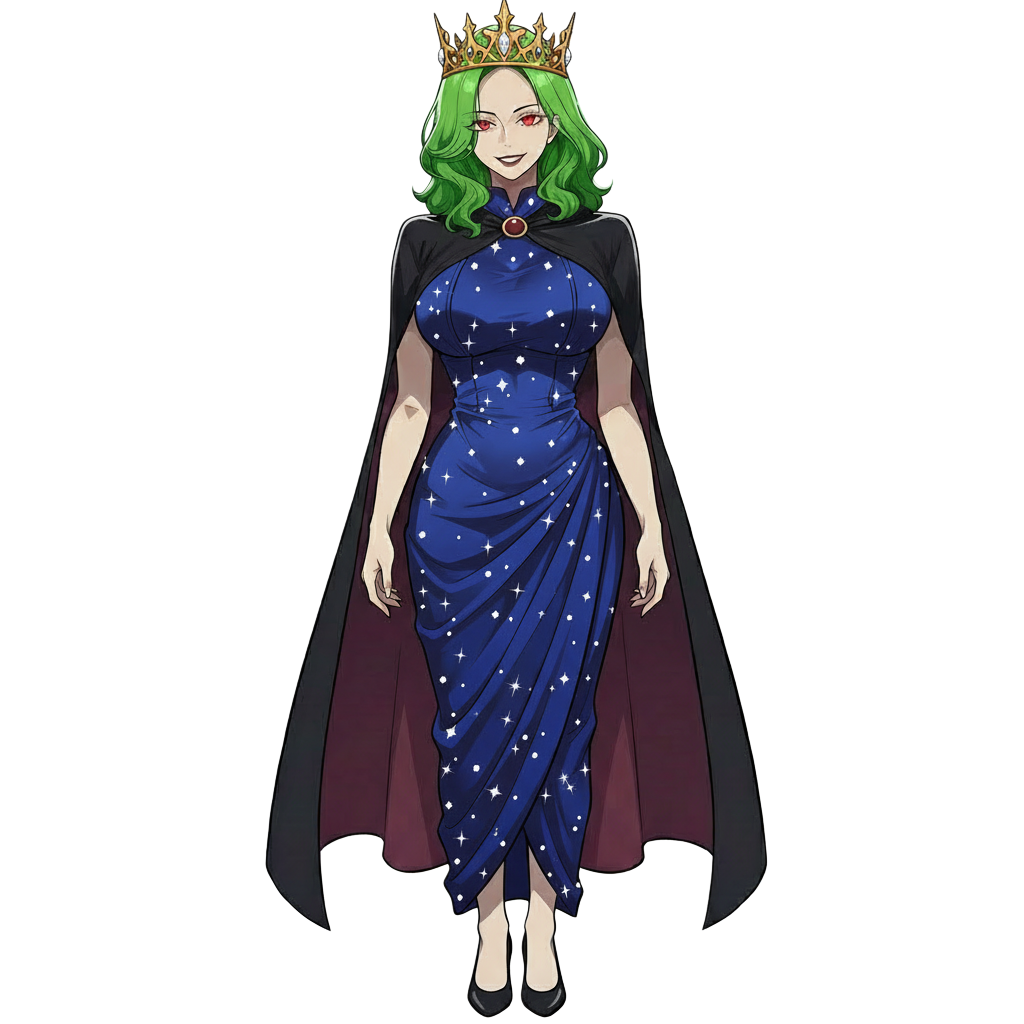
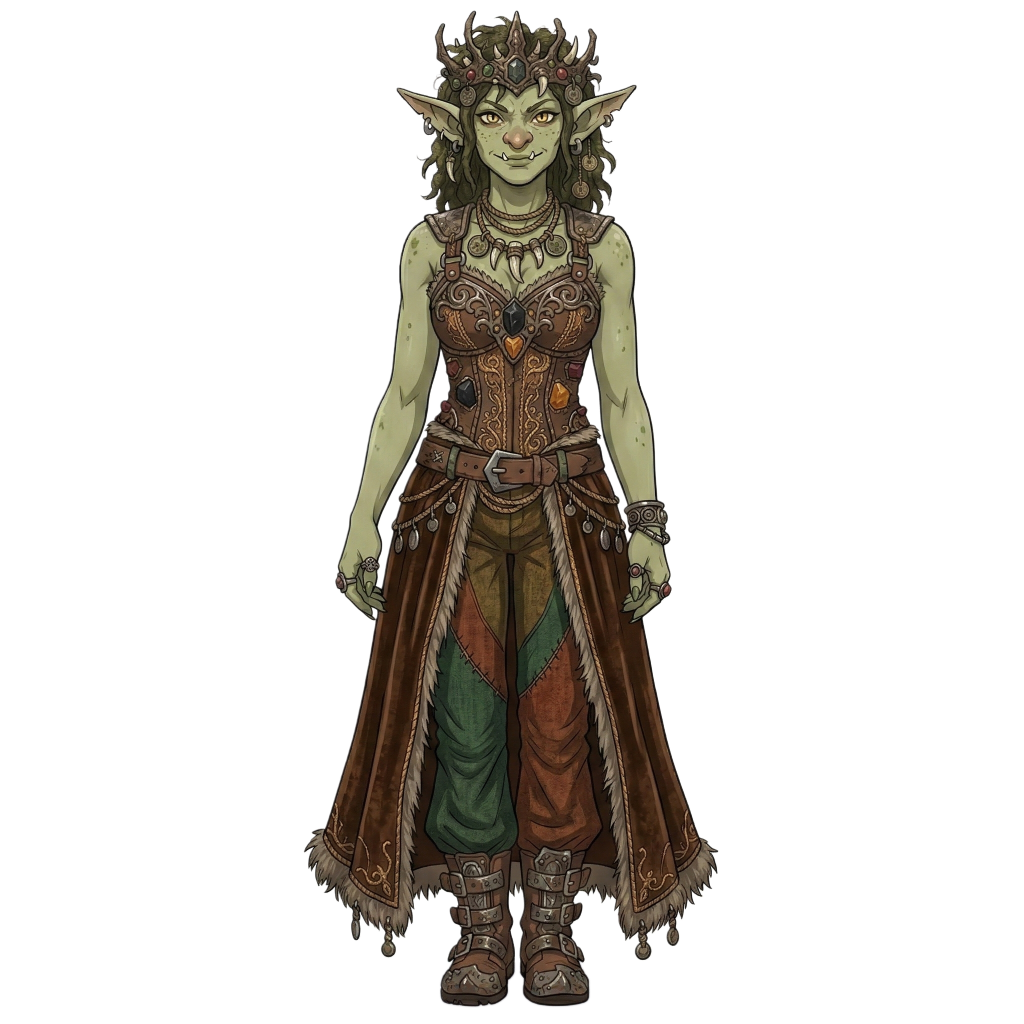
estilo e imagenes

Changed region(s): [[0.25, 0.0, 0.75, 1.0]]

diff --git a/style.css b/style.css
@@ -3,11 +3,21 @@ body { margin: 0; padding: 0; font-family: 'Segoe UI', Tahoma, Geneva, Verdana, 
 
 #gameContainer { position: relative; width: 100vw; height: 100vh; height: calc(var(--vh, 1vh) * 100); background: #000; overflow: hidden; }
 
-/* NUEVO: Añadido position relative para que el jugador flote correctamente sobre el grid */
+/* NUEVO: Viñeta para oscurecer los bordes y centrar la atención en el personaje */
+#gameContainer::before {
+    content: '';
+    position: absolute;
+    top: 0; left: 0; width: 100%; height: 100%;
+    background: radial-gradient(circle at center, transparent 15%, rgba(0,0,0,0.7) 100%);
+    pointer-events: none;
+    z-index: 8;
+}
+
 #map { position: relative; display: grid; gap: 2px; background: #000; width: 100%; height: 100%; overflow: hidden; scroll-behavior: smooth; align-content: start; justify-content: start; }
 
-#floatingHud { position: absolute; top: 20px; left: 20px; background: rgba(15, 26, 42, 0.85); padding: 15px; border-radius: 8px; border: 2px solid var(--accent); width: 220px; z-index: 10; box-shadow: 0 4px 15px rgba(0,0,0,0.8); pointer-events: none; }
-.hud-header { color: var(--accent); font-weight: bold; margin-bottom: 10px; font-size: 16px; text-transform: uppercase; }
+/* HUD MEJORADO: Más compacto, transparente y con desenfoque (blur) */
+#floatingHud { position: absolute; top: 20px; left: 20px; background: rgba(15, 26, 42, 0.65); backdrop-filter: blur(5px); padding: 10px; border-radius: 8px; border: 1px solid rgba(122, 215, 255, 0.4); width: 180px; z-index: 10; box-shadow: 0 4px 15px rgba(0,0,0,0.5); pointer-events: none; transition: all 0.3s ease; }
+.hud-header { color: var(--accent); font-weight: bold; margin-bottom: 8px; font-size: 14px; text-transform: uppercase; text-shadow: 1px 1px 2px #000; }
 
 #contextActionBar { display: none !important; }
 
@@ -17,7 +27,7 @@ body { margin: 0; padding: 0; font-family: 'Segoe UI', Tahoma, Geneva, Verdana, 
 .tile { width: 512px; height: 512px; border-radius: 8px; display: flex; align-items: center; justify-content: center; position: relative; transition: background-color 0.2s; }
 .tile img { width: 100%; height: 100%; object-fit: contain; image-rendering: pixelated; display: block; z-index: 2; cursor: pointer; }
 
-/* TERRENOS AÑADIDOS */
+/* TERRENOS */
 .grass { background-image: url('img/tiles/tile_grass.png'); background-color: #184b20; background-size: cover; image-rendering: pixelated; }
 .swamp { background-image: url('img/tiles/tile_swamp.png'), url('img/tiles/tile_grass.png'); background-color: #2b3b2c; background-size: cover; image-rendering: pixelated; box-shadow: inset 0 0 30px #111; }
 .fountain { background-image: url('img/tiles/tile_fountain.png'), url('img/tiles/tile_water.png'); background-color: #008ba3; background-size: cover; image-rendering: pixelated; box-shadow: inset 0 0 20px #7ad7ff; }
@@ -34,7 +44,7 @@ body { margin: 0; padding: 0; font-family: 'Segoe UI', Tahoma, Geneva, Verdana, 
 
 .fog { background: #03070d !important; background-image: none !important; box-shadow: inset 0 0 8px rgba(0,0,0,0.8) !important; border: 1px solid #060a12; pointer-events: none; }
 
-/* ESTILOS PARA OBJETOS DEL MAPA (COFRES Y FUENTES) */
+/* OBJETOS DEL MAPA */
 .chest-img { filter: drop-shadow(0 0 15px rgba(255, 235, 59, 0.5)); transition: transform 0.2s; }
 .chest-img:hover { transform: scale(1.05); }
 .fountain-img { filter: drop-shadow(0 0 20px rgba(122, 215, 255, 0.7)); opacity: 0.9; }
@@ -57,14 +67,15 @@ button:disabled { background: #334; color: #667; cursor: not-allowed; opacity: 0
 .stat-magic { color: #2196f3; font-weight: bold; }
 .icon { width: 16px; height: 16px; object-fit: contain; image-rendering: pixelated; vertical-align: middle; }
 
-.bar-container { width: 100%; height: 16px; background: #223; border-radius: 4px; overflow: hidden; border: 1px solid #000; position: relative; margin-top: 4px; }
+/* BARRAS DE ESTADO HUD REDUCIDAS */
+.bar-container { width: 100%; height: 12px; background: rgba(0,0,0,0.6); border-radius: 4px; overflow: hidden; border: 1px solid #000; position: relative; margin-top: 4px; }
 .hp-fill { height: 100%; background: #4caf50; transition: width 0.3s ease, background-color 0.3s ease; }
 .mp-fill { height: 100%; background: #2196f3; transition: width 0.3s ease; }
 .ep-fill { height: 100%; background: #9c27b0; transition: width 0.3s ease; } 
-.bar-text { position: absolute; width: 100%; text-align: center; top: 0; left: 0; font-size: 11px; font-weight: bold; color: white; line-height: 16px; text-shadow: 1px 1px 2px #000; }
+.bar-text { position: absolute; width: 100%; text-align: center; top: 0; left: 0; font-size: 10px; font-weight: bold; color: white; line-height: 12px; text-shadow: 1px 1px 2px #000; }
 
-.modal-overlay { position: fixed; top: 0; left: 0; width: 100vw; height: 100vh; height: calc(var(--vh, 1vh) * 100); background: rgba(0,0,0,0.85); display: none; align-items: center; justify-content: center; z-index: 100; overflow: hidden; }
-.modal-card { background: #14203a; padding: 20px; border-radius: 12px; text-align: center; width: 320px; max-height: 90vh; overflow-y: auto; border: 2px solid var(--accent); box-shadow: 0 0 20px rgba(122, 215, 255, 0.3); }
+.modal-overlay { position: fixed; top: 0; left: 0; width: 100vw; height: 100vh; height: calc(var(--vh, 1vh) * 100); background: rgba(0,0,0,0.85); display: none; align-items: center; justify-content: center; z-index: 100; overflow: hidden; backdrop-filter: blur(3px); }
+.modal-card { background: #14203a; padding: 20px; border-radius: 12px; text-align: center; width: 320px; max-height: 90vh; overflow-y: auto; border: 2px solid var(--accent); box-shadow: 0 0 30px rgba(0, 0, 0, 0.8); }
 
 .npc-dialog-box { background: #0b1220; border: 1px solid #4a5a80; padding: 15px; border-radius: 8px; text-align: left; margin-bottom: 15px; position: relative; }
 .npc-dialog-box::before { content: ''; position: absolute; top: -10px; left: 20px; border-width: 0 10px 10px 10px; border-style: solid; border-color: transparent transparent #0b1220 transparent; }
@@ -92,21 +103,19 @@ button:disabled { background: #334; color: #667; cursor: not-allowed; opacity: 0
 ::-webkit-scrollbar-thumb { background: #4a5a80; border-radius: 4px; }
 ::-webkit-scrollbar-thumb:hover { background: var(--accent); }
 
-/* ANIMACIONES ORIGINALES + MEJORAS */
+/* ANIMACIONES */
 @keyframes flashDamage { 0% { filter: brightness(1); transform: scale(1); } 50% { filter: brightness(0.5) sepia(1) hue-rotate(-50deg) saturate(5); transform: scale(0.9); } 100% { filter: brightness(1); transform: scale(1); } }
 @keyframes flashHeal { 0% { filter: brightness(1); transform: scale(1); } 50% { filter: brightness(1.5) sepia(1) hue-rotate(90deg) saturate(5); transform: scale(1.1); } 100% { filter: brightness(1); transform: scale(1); } }
 @keyframes shakeScreen { 0% { transform: translate(1px, 1px) rotate(0deg); } 20% { transform: translate(-5px, 0px) rotate(2deg); } 40% { transform: translate(5px, 2px) rotate(0deg); } 60% { transform: translate(-5px, 1px) rotate(0deg); } 80% { transform: translate(-1px, -1px) rotate(2deg); } 100% { transform: translate(0px, 0px) rotate(0deg); } }
 
-/* NUEVO: anim-damage ahora incluye shake para mayor impacto */
 .anim-damage { animation: flashDamage 0.3s ease, shakeScreen 0.3s ease; }
 .anim-heal { animation: flashHeal 0.4s ease; }
 .anim-shake { animation: shakeScreen 0.3s ease; }
 
 /* =========================================
-   NUEVO: CLASES DE GAME FEEL
+   GAME FEEL Y PROTAGONISMO DEL PERSONAJE
    ========================================= */
 
-/* Transición suave para el movimiento del jugador sobre el grid */
 .player-sprite {
     position: absolute;
     width: 512px;
@@ -121,10 +130,12 @@ button:disabled { background: #334; color: #667; cursor: not-allowed; opacity: 0
     object-fit: contain;
     image-rendering: pixelated;
     display: block;
-    filter: drop-shadow(0 15px 15px rgba(0,0,0,0.6)); /* Sombreado para destacar */
+    /* NUEVO: Sombra más pronunciada, más brillo y escalado para que se vea más grande en proporción al mapa */
+    filter: drop-shadow(0 20px 20px rgba(0,0,0,0.8)) brightness(1.15); 
+    transform: scale(1.3);
+    transform-origin: center bottom;
 }
 
-/* Efecto visual de peligro (HUD parpadea rojo cuando HP < 20%) */
 .damage-overlay {
     position: absolute;
     top: 0; left: 0;
@@ -171,8 +182,6 @@ button:disabled { background: #334; color: #667; cursor: not-allowed; opacity: 0
     100% { transform: translateY(-90px) scale(0.9); opacity: 0; }
 }
 
-/* ========================================= */
-
 .class-option { background: #0b1220; padding: 15px; border-radius: 8px; flex: 1; text-align: center; cursor: pointer; transition: 0.2s; border: 2px solid transparent; }
 .class-option:hover { transform: translateY(-5px); box-shadow: 0 5px 15px rgba(0,0,0,0.5); }
 .class-guerrero { border-color: #4caf50; }
@@ -202,6 +211,9 @@ button:disabled { background: #334; color: #667; cursor: not-allowed; opacity: 0
 
 .mobile-only { display: none; }
 
+/* =========================================
+   RESPONSIVE: ESTILOS PARA MÓVIL
+   ========================================= */
 @media (max-width: 768px) {
     .mobile-only { display: block; }
     .desktop-only { display: none !important; }
@@ -209,14 +221,24 @@ button:disabled { background: #334; color: #667; cursor: not-allowed; opacity: 0
     .class-img, .combat-img { max-width: 120px !important; height: 120px !important; }
     #npcIcon img { max-width: 120px !important; height: 120px !important; }
 
-    #dpad { position: absolute; bottom: 70px; right: 40px; display: flex; flex-direction: column; align-items: center; z-index: 50; }
-    .dpad-mid { display: flex; gap: 60px; margin: 8px 0; }
-    .dpad-btn { width: 60px; height: 60px; border-radius: 50%; background: rgba(15, 26, 42, 0.85); border: 2px solid var(--accent); font-size: 28px; display: flex; justify-content: center; align-items: center; padding: 0; margin: 0; box-shadow: 0 4px 10px rgba(0,0,0,0.8); backdrop-filter: blur(3px); color: white; touch-action: manipulation; }
-    .dpad-btn:active { background: rgba(122, 215, 255, 0.5); transform: scale(0.95); }
+    /* CONTROLES MÓVILES MEJORADOS Y AGRUPADOS */
+    #dpad { position: absolute; bottom: 25px; right: 20px; display: flex; flex-direction: column; align-items: center; z-index: 50; }
+    .dpad-mid { display: flex; gap: 15px; margin: 5px 0; }
+    .dpad-btn { width: 55px; height: 55px; border-radius: 50%; background: rgba(15, 26, 42, 0.6); border: 2px solid rgba(122, 215, 255, 0.5); font-size: 24px; display: flex; justify-content: center; align-items: center; padding: 0; margin: 0; box-shadow: 0 4px 10px rgba(0,0,0,0.6); backdrop-filter: blur(4px); color: white; touch-action: manipulation; transition: transform 0.1s, background 0.1s; }
+    .dpad-btn:active { background: rgba(122, 215, 255, 0.6); transform: scale(0.9); border-color: var(--accent); }
 
-    #btnMobileMenu { position: absolute; top: 20px; right: 20px; z-index: 50; width: auto; padding: 12px 18px; background: rgba(15, 26, 42, 0.9); border: 2px solid var(--accent); border-radius: 8px; color: var(--accent); font-weight: bold; box-shadow: 0 4px 15px rgba(0,0,0,0.8); font-size: 16px; margin: 0; }
+    #btnMobileMenu { position: absolute; top: 15px; right: 15px; z-index: 50; width: auto; padding: 10px 15px; background: rgba(15, 26, 42, 0.7); backdrop-filter: blur(5px); border: 1px solid var(--accent); border-radius: 8px; color: var(--accent); font-weight: bold; box-shadow: 0 4px 10px rgba(0,0,0,0.5); font-size: 14px; margin: 0; }
 
-    #floatingHud { transform: scale(0.8); transform-origin: top left; top: 15px; left: 15px; width: 190px; }
+    /* HUD EN MÓVIL: MÁS PEQUEÑO Y TRANSPARENTE, NO TAPA EL CENTRO */
+    #floatingHud { 
+        top: 15px; 
+        left: 15px; 
+        width: 145px; 
+        background: rgba(15, 26, 42, 0.45); 
+        padding: 8px;
+        border: 1px solid rgba(122, 215, 255, 0.2);
+    }
+    .hud-header { font-size: 12px; margin-bottom: 5px; }
 
     .modal-card { width: 95% !important; padding: 15px; }
     #classContainer { flex-direction: column !important; gap: 10px; }
